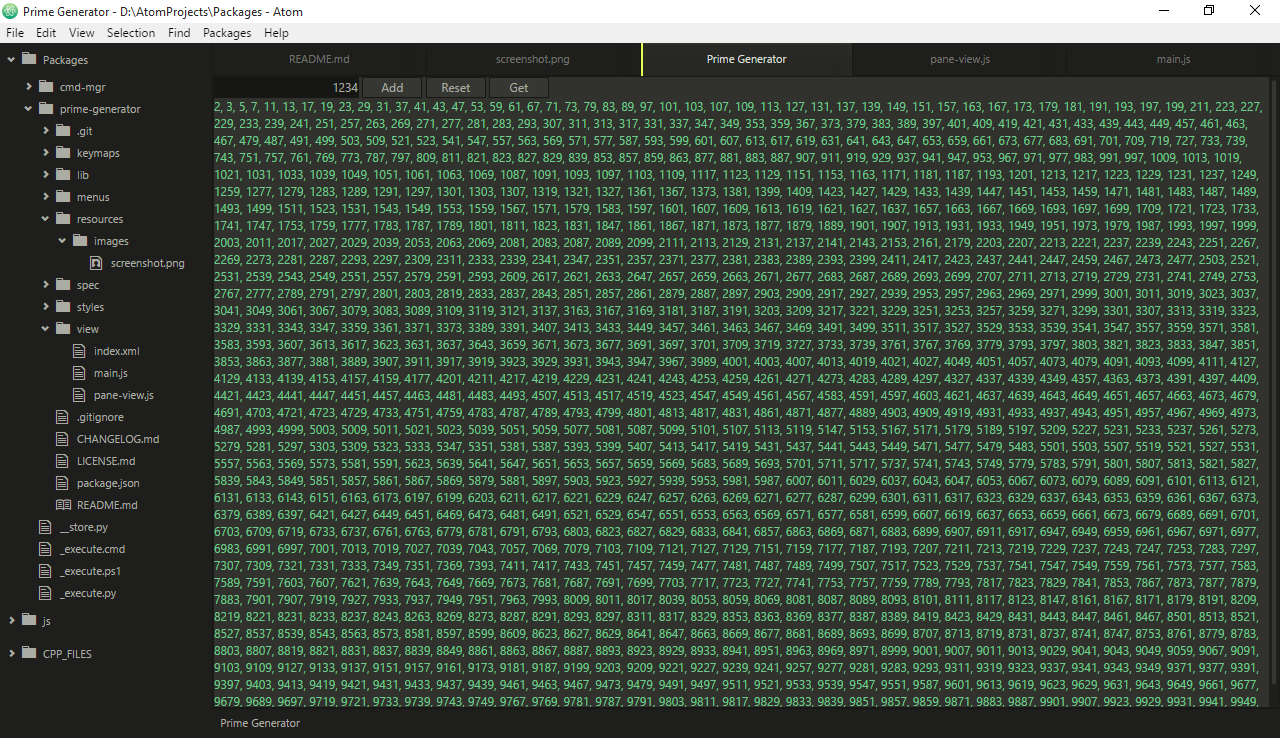
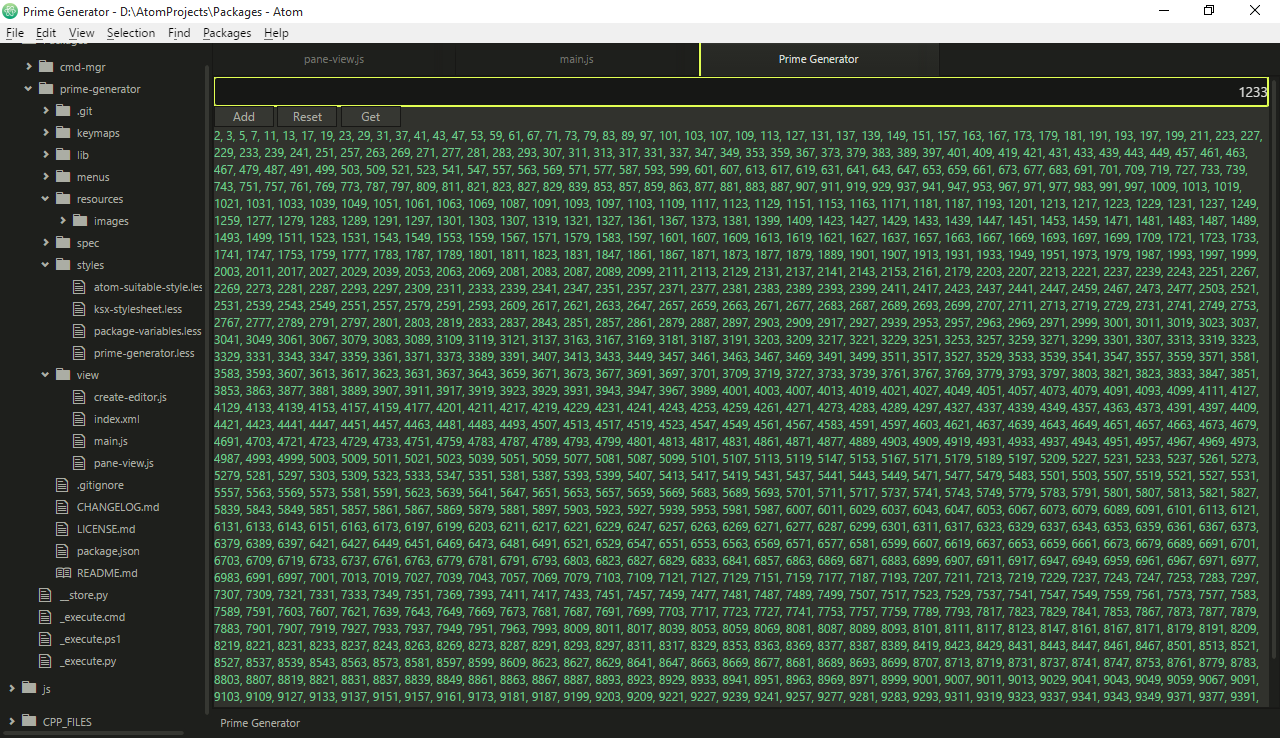
changed <input> -> <atom-text-editor>

diff --git a/view/pane-view.js b/view/pane-view.js
@@ -5,6 +5,7 @@ module.exports = new (function () {
 	var readFileSync = require('fs').readFileSync;
 	var utilities = require('ksxnodemodules').utilities;
 	var variables = require('../lib/variables.json');
+	var createEditor = require('./create-editor.js');
 	var main = require('./main.js');
 
 	var openuri = variables.uri.open;
@@ -17,7 +18,11 @@ module.exports = new (function () {
 		var htmlContent = readFileSync(__dirname + '/index.xml');
 		var htmlDocument = domparser.parseFromString(htmlContent, 'text/xml');
 		var htmlElement = htmlDocument.documentElement;
-		setTimeout(main.bind(null, new ElementSet(htmlElement)));
+		setTimeout(() => {
+			var elements_collection = new ElementSet(htmlElement);
+			createEditor(elements_collection);
+			main(elements_collection);
+		})
 		return htmlElement;
 	})
 
@@ -84,34 +89,3 @@ module.exports = new (function () {
 	}
 
 })();
-
-// module.exports = function () {
-// 	'use strict';
-// 	return atom.workspace.open(__dirname + '/index.xml');
-// 	// return atom.workspace.open(__dirname + '/index.xml')
-// }
-
-// function main(out) {
-// 	'use strict';
-//
-// 	out.open
-//
-// 	// var readFileSync = require('fs').readFileSync;
-// 	// var htmlContent = readFileSync(__dirname + '/index.xml', 'utf8');
-// 	// var domparser = new DOMParser();
-// 	// var element = domparser.parseFromString(htmlContent, 'text/xml').documentElement;
-//
-// 	// var iterateArray = Function.call.bind(Array.prototype.forEach);
-//
-// 	// exportElementById(element);
-// 	// function exportElementById(element) {
-// 	// 	var id = element.id;
-// 	// 	if (id) {
-// 	// 		elements_collection[id] = element;
-// 	// 	}
-// 	// 	iterateArray(element.children, exportElementById);
-// 	// }
-//
-// }
-//
-// main(exports);

diff --git a/view/main.js b/view/main.js
@@ -4,11 +4,12 @@ module.exports = function (elements_collection) {
 
 	var PrimeGenerator = require('ksxnodemodules').prime.PrimeGenerator;
 
-	var addingquantityinput = elements_collection.addingquantityinput;
+	var inputEditor = elements_collection.inputEditor;
+	var addingcontainerdiv = elements_collection.addingcontainerdiv;
 	var errormessagespan = elements_collection.errormessagespan;
 	var outputspan = elements_collection.outputspan;
 
-	addingquantityinput.addEventListener('keydown', (event) => event.keyCode === 13 && main(), false);
+	addingcontainerdiv.addEventListener('keydown', (event) => event.keyCode === 13 && main(), false);
 	elements_collection.addingbutton.addEventListener('click', main, false);
 	elements_collection.resetbutton.addEventListener('click', reset, false);
 	elements_collection.getbutton.addEventListener('click', createEditorPane, false);
@@ -32,7 +33,7 @@ module.exports = function (elements_collection) {
 
 	function main() {
 
-		var n = parseInt(addingquantityinput.value);
+		var n = parseInt(inputEditor.getText() || 0);
 
 		if (!isFinite(n) || n < 0) {
 			msgErr("Invalid input.");
@@ -66,7 +67,7 @@ module.exports = function (elements_collection) {
 		primegen = new PrimeGenerator();
 		length = 1;
 		outputspan.textContent = '2';
-		addingquantityinput.value = '';
+		inputEditor.setText('');
 		msgErr('');
 	}
 

diff --git a/view/create-editor.js b/view/create-editor.js
@@ -1,0 +1,14 @@
+
+// void createEditor(inout ElementSet elements_collection);
+
+module.exports = function (elements_collection) {
+	'use strict';
+
+	var editor = elements_collection.inputEditor = atom.workspace.buildTextEditor({mini: true});
+	var editorView = elements_collection.inputEditorView = atom.views.getView(editor);
+
+	editor.setPlaceholderText('positive integer');
+	editorView.classList.add('mini');
+	elements_collection.addingcontainerdiv.insertBefore(editorView, null);
+
+}

diff --git a/styles/prime-generator.less b/styles/prime-generator.less
@@ -7,10 +7,6 @@ html@{package} body {
 	overflow: auto;
 }
 
-html@{package} #addingquantityinput {
-	width: @site-input-width!important;
-}
-
 html@{package} button {
 	width: @site-button-width!important;
 }
